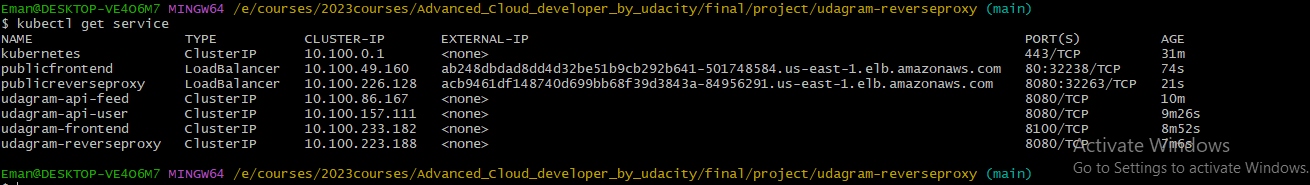
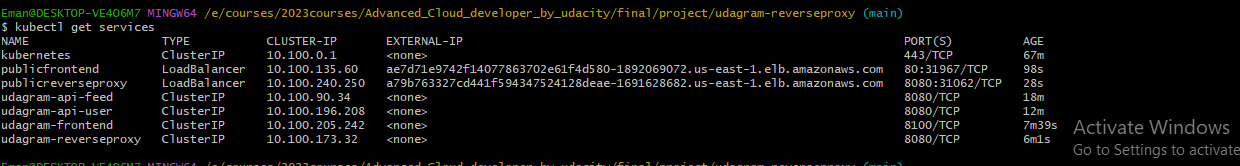
try CI

Changed region(s): [[0.0, 0.0, 1.0, 1.0], [0.8887, 0.2711, 0.9194, 0.3916], [0.8887, 0.1807, 0.9194, 0.241]]

diff --git a/udagram-frontend/src/environments/environment.prod.ts b/udagram-frontend/src/environments/environment.prod.ts
@@ -5,7 +5,7 @@
 export const environment = {
   production: false,
   appName: 'Udagram',
-  apiHost: 'http://acb9461df148740d699bb68f39d3843a-84956291.us-east-1.elb.amazonaws.com:8080/api/v0'
+  apiHost: 'http://a79b763327cd441f594347524128deae-1691628682.us-east-1.elb.amazonaws.com:8080/api/v0'
 };
 
 /*

diff --git a/udagram-frontend/src/environments/environment.ts b/udagram-frontend/src/environments/environment.ts
@@ -5,7 +5,7 @@
 export const environment = {
   production: false,
   appName: 'Udagram',
-  apiHost: 'http://acb9461df148740d699bb68f39d3843a-84956291.us-east-1.elb.amazonaws.com:8080/api/v0'
+  apiHost: 'http://a79b763327cd441f594347524128deae-1691628682.us-east-1.elb.amazonaws.com:8080/api/v0'
 };
 
 /*
